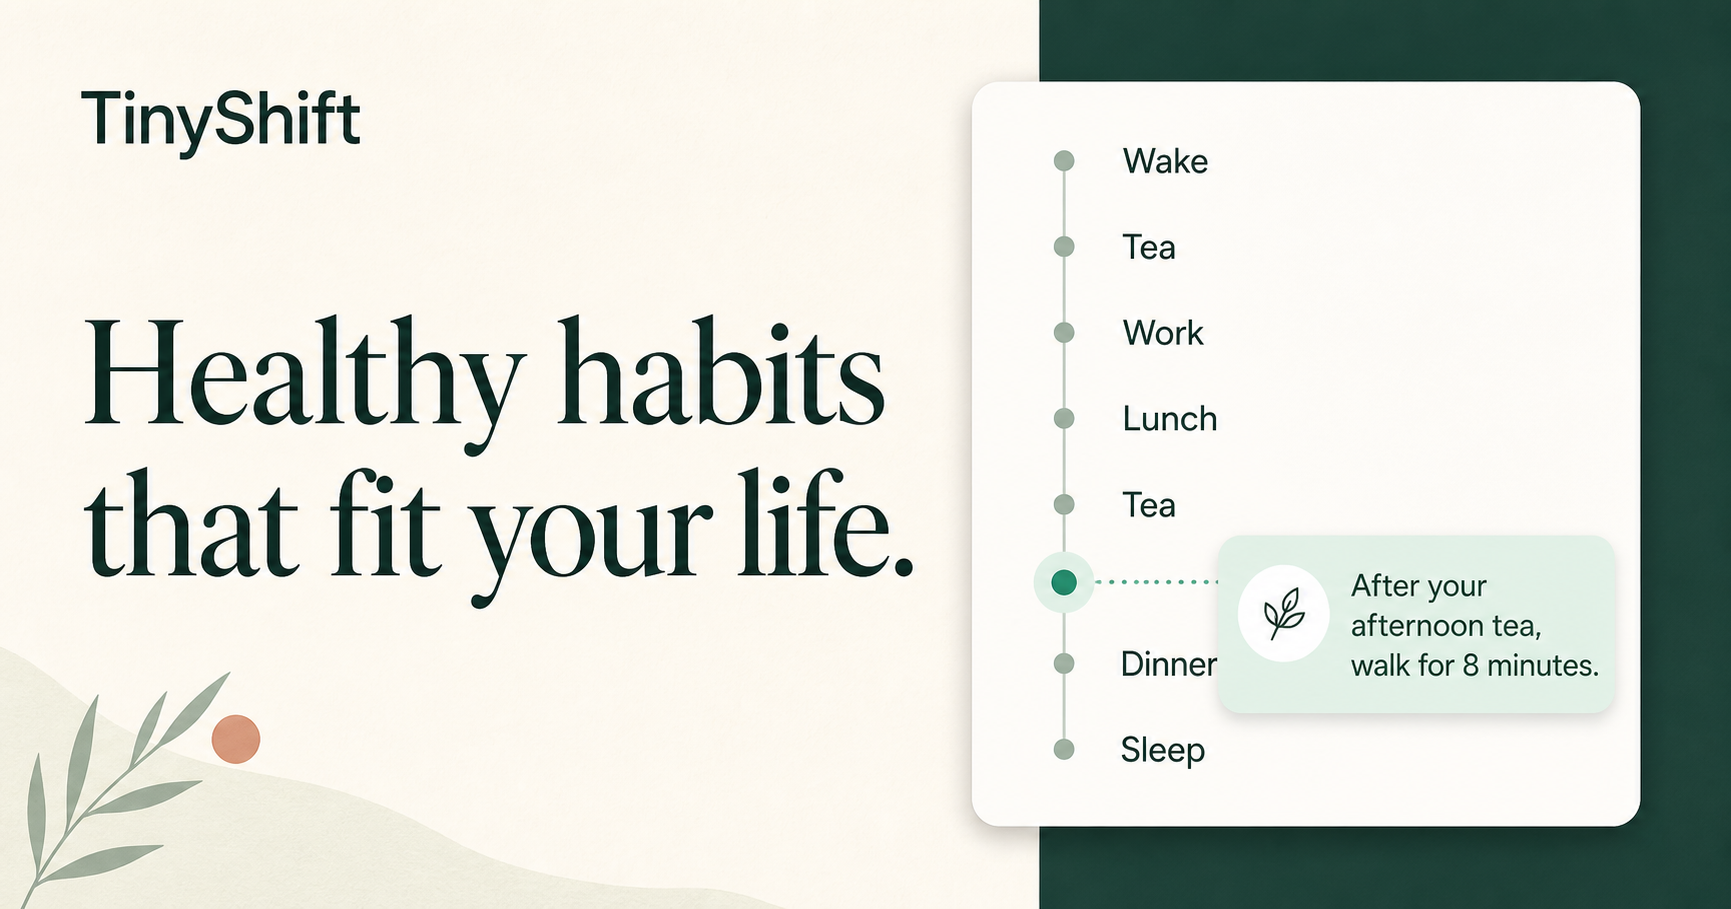
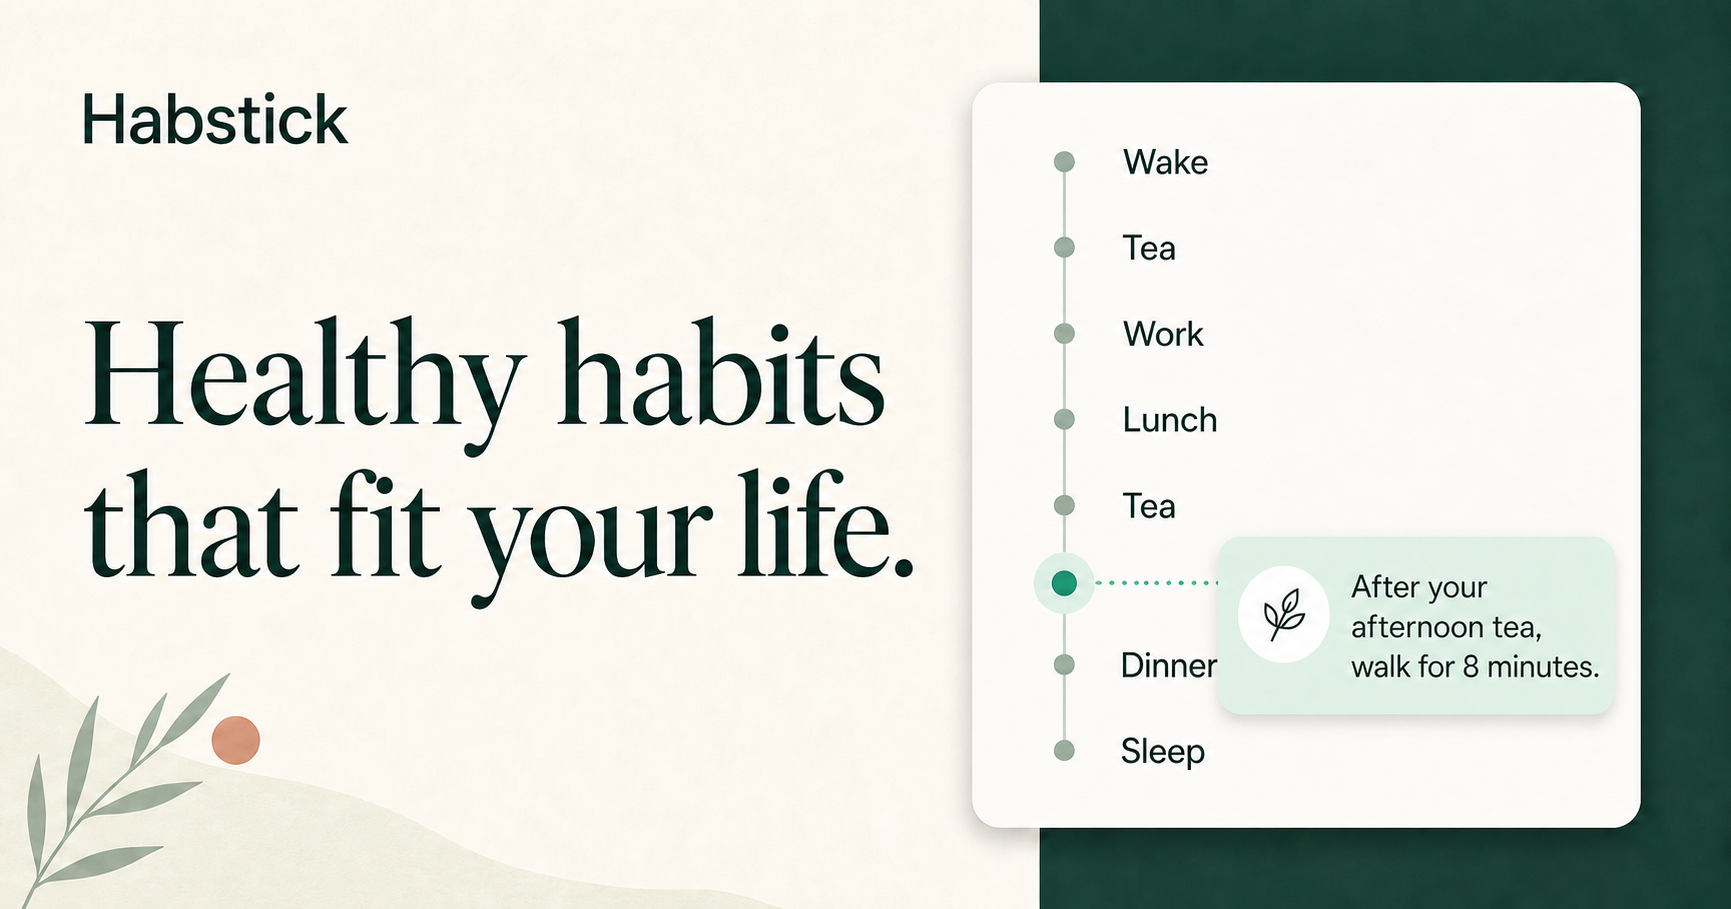
Rename TinyShift to Habstick

diff --git a/app/page.tsx b/app/page.tsx
@@ -135,11 +135,11 @@ function Landing({ onStart, onDemo, onHome, savedName, onContinue }: { onStart: 
       <div className="hero-copy">
         <div className="eyebrow"><Icon name="spark" /> Small changes. Real life.</div>
         <h1>Healthy habits that<br/><em>fit your life.</em></h1>
-        <p className="hero-lede">Don’t rebuild your routine. Improve the one you already have. TinyShift learns how your day actually works, then finds food and movement changes easy enough to stick.</p>
+        <p className="hero-lede">Don’t rebuild your routine. Improve the one you already have. Habstick learns how your day actually works, then finds food and movement changes easy enough to stick.</p>
         <div className="hero-actions"><button className="button" onClick={onStart}>Map my routine <Icon name="arrow" /></button><button className="button ghost" onClick={() => document.getElementById("how")?.scrollIntoView({ behavior: "smooth" })}>See how it works</button></div>
         <div className="proof"><div className="avatars"><span>V</span><span>A</span><span>M</span></div><p><strong>Built around your day</strong><br/>No calories. No guilt. No overhaul.</p></div>
       </div>
-      <div className="routine-preview" aria-label="Example routine and TinyShift suggestion">
+      <div className="routine-preview" aria-label="Example routine and Habstick suggestion">
         <div className="preview-head"><span>Tuesday · your real day</span><span className="live-dot">Mapped</span></div>
         <div className="mini-timeline">
           {[['7:30','Wake'],['8:15','Tea'],['9:00','Work'],['1:30','Lunch'],['5:00','Tea'],['8:30','Dinner'],['11:30','Sleep']].map(([time,label], i) => <div className={`mini-row ${i === 4 ? "active" : ""}`} key={time}><time>{time}</time><span className="dot"/><b>{label}</b>{i === 4 && <span className="plus">+</span>}</div>)}
@@ -157,7 +157,7 @@ function Landing({ onStart, onDemo, onHome, savedName, onContinue }: { onStart: 
   </div>;
 }
 
-function Brand({ onHome }: { onHome: () => void }) { return <button className="brand" onClick={onHome} aria-label="TinyShift home"><span className="brand-mark"><Icon name="leaf" /></span>TinyShift</button>; }
+function Brand({ onHome }: { onHome: () => void }) { return <button className="brand" onClick={onHome} aria-label="Habstick home"><span className="brand-mark"><Icon name="leaf" /></span>Habstick</button>; }
 
 function AppNav({ view, go, name }: { view: View; go: (v: View) => void; name: string }) {
   return <header className="appbar"><Brand onHome={() => go("landing")} /><nav aria-label="Main navigation">
@@ -249,7 +249,7 @@ function RoutineMap({ data, shifts, onContinue, onHome }: { data: OnboardingData
 function Plan({ shifts, onContinue }: { shifts: TinyShift[]; onContinue: () => void }) {
   return <div className="page-shell plan-page"><div className="page-intro centered"><div><div className="eyebrow"><Icon name="spark" /> YOUR STARTING PLAN</div><h1>Just three shifts.<br/><em>Small on purpose.</em></h1><p>Try these for a week. We’ll learn from what fits—and adjust what doesn’t.</p></div></div>
     <div className="plan-grid">{shifts.map((s, i) => <ShiftDetail key={s.id} shift={s} number={i + 1}/>)}</div>
-    <div className="plan-pledge"><div className="pledge-icon"><Icon name="leaf" /></div><div><b>The TinyShift promise</b><p>Missing a habit is information, not failure. The plan should adapt to your life—not the other way around.</p></div><button className="button" onClick={onContinue}>Start my week <Icon name="arrow" /></button></div>
+    <div className="plan-pledge"><div className="pledge-icon"><Icon name="leaf" /></div><div><b>The Habstick promise</b><p>Missing a habit is information, not failure. The plan should adapt to your life—not the other way around.</p></div><button className="button" onClick={onContinue}>Start my week <Icon name="arrow" /></button></div>
   </div>;
 }
 
@@ -266,7 +266,7 @@ function Dashboard({ data, shifts, log, today, mark, onMiss, go }: { data: Onboa
   return <div className="dashboard page-shell"><section className="dash-hero"><div><div className="today-label">{formatDayLabel(today)}</div><h1>{greeting(new Date().getHours())}{name ? `, ${name}` : ""}.</h1><p>Today’s goal isn’t perfection. Just keep the pattern alive.</p></div><div className="day-progress"><div className="progress-ring" style={{ "--progress": `${(done / shifts.length) * 360}deg` } as React.CSSProperties}><span><b>{done}</b>/{shifts.length}</span></div><p><b>Tiny Shifts</b><br/>completed today</p></div></section>
     <div className="dashboard-layout"><section><div className="section-title"><div><span>TODAY’S PLAN</span><h2>Three chances to care for yourself.</h2></div></div><div className="habit-list">{shifts.map((s) => <HabitCard key={s.id} shift={s} status={statusFor(log, s.id, today)} onDone={() => mark(s.id, statusFor(log, s.id, today) === "done" ? undefined : "done")} onMiss={() => onMiss(s)} />)}</div></section>
       <aside className="dash-side"><article className="week-card"><div className="week-top"><div><span>THIS WEEK</span><strong>{week.done} <small>of {week.opportunities}</small></strong></div><div className="mini-ring" style={{ "--percent": `${percent}%` } as React.CSSProperties}>{percent}%</div></div><div className="week-bars">{week.days.map((d) => <div key={d.date}><span style={{ height: `${d.done ? 20 + (d.done / tallest) * 45 : 6}px` }} className={d.date === today ? "current" : ""}/><small>{d.letter}</small></div>)}</div><p>{week.done ? "You’re showing up more often than not. That’s how patterns grow." : "Nothing logged yet. Mark one shift done and this fills in."}</p><button onClick={() => go("review")}>View weekly review <Icon name="arrow" /></button></article>
-      <article className="thought-card"><div className="quote-mark">“</div><p>The best plan is the one that still works on an ordinary Tuesday.</p><span>A note from TinyShift</span></article></aside></div>
+      <article className="thought-card"><div className="quote-mark">“</div><p>The best plan is the one that still works on an ordinary Tuesday.</p><span>A note from Habstick</span></article></aside></div>
   </div>;
 }
 

diff --git a/app/layout.tsx b/app/layout.tsx
@@ -2,18 +2,18 @@ import type { Metadata } from "next";
 import "./globals.css";
 
 export const metadata: Metadata = {
-  title: "TinyShift — Healthy habits that fit your life",
+  title: "Habstick — Healthy habits that fit your life",
   description: "Map your real day and find small food and movement changes easy enough to stick.",
-  applicationName: "TinyShift",
+  applicationName: "Habstick",
   openGraph: {
-    title: "TinyShift — Healthy habits that fit your life",
+    title: "Habstick — Healthy habits that fit your life",
     description: "Don't rebuild your routine. Improve the one you already have.",
     type: "website",
-    images: [{ url: "/og.png", width: 1200, height: 630, alt: "TinyShift routine map and tiny habit suggestion" }],
+    images: [{ url: "/og.png", width: 1731, height: 909, alt: "Habstick routine map and tiny habit suggestion" }],
   },
   twitter: {
     card: "summary_large_image",
-    title: "TinyShift — Healthy habits that fit your life",
+    title: "Habstick — Healthy habits that fit your life",
     description: "Small food and movement changes designed around your real day.",
     images: ["/og.png"],
   },

diff --git a/README.md b/README.md
@@ -1,4 +1,4 @@
-# TinyShift
+# Habstick
 
 A habit-coaching prototype. Instead of asking you to rebuild your routine, it maps the
 day you already have, finds the moments that reliably repeat, and attaches three small
@@ -66,7 +66,7 @@ needs real accounts, and [`examples/d1/`](examples/d1/) shows the shape it would
 
 ### Sign-in, if it is ever needed
 
-TinyShift is anonymous today. If it grows accounts, the helpers are already sitting in
+Habstick is anonymous today. If it grows accounts, the helpers are already sitting in
 [`app/chatgpt-auth.ts`](app/chatgpt-auth.ts) — `getChatGPTUser()` for optional signed-in UI,
 `requireChatGPTUser(returnTo)` to send anonymous visitors through Sign in with ChatGPT, and
 `chatGPTSignInPath` / `chatGPTSignOutPath` for links. Pages that use them need
